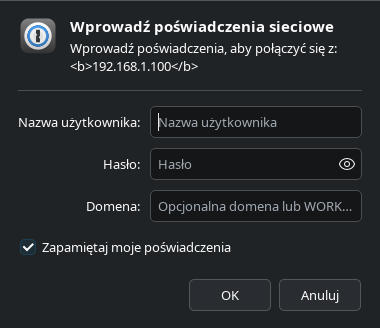
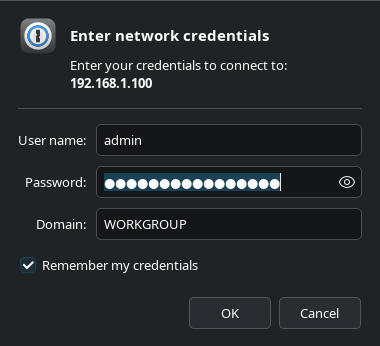
Prepare repository for public release
- Add MIT License file (Copyright Krzysztof (Shieldziak) Tarczyński)
- Update author metadata across setup.py and pyproject.toml
- Generate English screenshots and embed them into README.md
- Add setup.sh and update bin/drivemounter with default .venv support
- Add drivemounter.desktop, requirements.txt, and GitHub Actions CI workflow

diff --git a/setup.py b/setup.py
@@ -3,9 +3,13 @@ from setuptools import setup, find_packages
 setup(
     name="drivemounter",
     version="1.0.0",
-    description="Klon 1:1 kreatora mapowania dysków Windows dla KDE Plasma (SMB, NFS, WebDAV)",
-    author="Antigravity",
+    description="1:1 Windows Map Network Drive clone for KDE Plasma (SMB, NFS, WebDAV)",
+    author="Krzysztof (Shieldziak) Tarczyński",
+    author_email="32707076+Shieldowskyy@users.noreply.github.com",
+    url="https://github.com/Shieldowskyy/drivemounter",
+    license="MIT",
     packages=find_packages(),
+    python_requires=">=3.9",
     install_requires=[
         "PyQt6>=6.5.0",
     ],
@@ -18,6 +22,11 @@ setup(
         "Environment :: X11 Applications :: Qt",
         "Operating System :: POSIX :: Linux",
         "Programming Language :: Python :: 3",
+        "Programming Language :: Python :: 3.9",
+        "Programming Language :: Python :: 3.10",
+        "Programming Language :: Python :: 3.11",
+        "Programming Language :: Python :: 3.12",
+        "License :: OSI Approved :: MIT License",
         "Topic :: Desktop Environment :: K Desktop Environment (KDE)",
         "Topic :: System :: Networking",
     ],

diff --git a/drivemounter/ui/credentials_dialog.py b/drivemounter/ui/credentials_dialog.py
@@ -104,7 +104,7 @@ class CredentialsDialog(QtWidgets.QDialog):
         # Action buttons
         btn_box = QtWidgets.QDialogButtonBox()
         self.ok_btn = btn_box.addButton("OK", QtWidgets.QDialogButtonBox.ButtonRole.AcceptRole)
-        self.cancel_btn = btn_box.addButton("Anuluj", QtWidgets.QDialogButtonBox.ButtonRole.RejectRole)
+        self.cancel_btn = btn_box.addButton(t("BTN_CANCEL"), QtWidgets.QDialogButtonBox.ButtonRole.RejectRole)
         self.ok_btn.setDefault(True)
 
         btn_box.accepted.connect(self._on_accept)
@@ -125,7 +125,7 @@ class CredentialsDialog(QtWidgets.QDialog):
 
     def _on_accept(self):
         if not self.user_edit.text().strip():
-            QtWidgets.QMessageBox.warning(self, "Wymagane dane", "Podaj nazwę użytkownika.")
+            QtWidgets.QMessageBox.warning(self, t("SEC_TITLE"), t("AUTH_EMPTY_USER"))
             self.user_edit.setFocus()
             return
         self.accept()

diff --git a/drivemounter/i18n.py b/drivemounter/i18n.py
@@ -106,6 +106,10 @@ STRINGS: Dict[str, Dict[str, str]] = {
         "en": "Remember my credentials",
         "pl": "Zapamiętaj moje poświadczenia"
     },
+    "AUTH_EMPTY_USER": {
+        "en": "Please enter a user name.",
+        "pl": "Podaj nazwę użytkownika."
+    },
 
     # Browse Dialog
     "BROWSE_TITLE": {

diff --git a/README.md b/README.md
@@ -6,6 +6,20 @@ Seamlessly mount remote network storage on Linux with the familiar Windows workf
 
 ---
 
+## 📸 Screenshots
+
+<p align="center">
+  <img src="screenshot_main.png" alt="DriveMounter - Map Network Drive" width="540" />
+</p>
+
+<p align="center">
+  <img src="screenshot_credentials.png" alt="Windows Security Credentials Dialog" width="380" />
+  &nbsp;&nbsp;&nbsp;&nbsp;
+  <img src="screenshot_disconnect.png" alt="Disconnect Network Drives" width="460" />
+</p>
+
+---
+
 ## 🌟 Key Features
 
 - **1:1 Windows Map Network Drive Wizard Workflow:**
@@ -36,24 +50,67 @@ Seamlessly mount remote network storage on Linux with the familiar Windows workf
 
 ---
 
+## 📦 System Dependencies
+
+Ensure the required system tools and network clients are installed for your distribution:
+
+### Ubuntu / Debian / Kubuntu
+```bash
+sudo apt update
+sudo apt install python3 python3-venv python3-pip cifs-utils nfs-common davfs2 smbclient libnotify-bin
+```
+
+### Fedora
+```bash
+sudo dnf install python3 python3-pip cifs-utils nfs-utils davfs2 samba-client libnotify
+```
+
+### Arch Linux / Manjaro
+```bash
+sudo pacman -S python python-pip cifs-utils nfs-utils davfs2 samba libnotify
+```
+
+---
+
 ## 🚀 Getting Started
 
-### Installation & Launcher Setup
+### Quick Install (Default with Python `venv`)
+
+The repository includes a dedicated `setup.sh` that automatically creates an isolated virtual environment (`.venv`), installs dependencies, generates the desktop shortcut, and links `drivemounter` into your `~/.local/bin`:
 
 ```bash
-# Clone or navigate to the repository
-cd ~/Dokumenty/drivemounter
+# Clone the repository
+git clone https://github.com/Shieldowskyy/drivemounter.git
+cd drivemounter
 
-# Make launcher executable and link to ~/.local/bin
-chmod +x bin/drivemounter
+# Run the automated setup script (uses .venv by default)
+./setup.sh
+```
+
+### Manual Setup with `venv`
+
+If you prefer to configure the virtual environment manually:
+
+```bash
+# 1. Create and activate virtual environment
+python3 -m venv .venv
+source .venv/bin/activate
+
+# 2. Install dependencies & package in editable mode
+pip install --upgrade pip
+pip install -e .
+
+# 3. Link launcher to your local path
 mkdir -p ~/.local/bin
 ln -sf "$(pwd)/bin/drivemounter" ~/.local/bin/drivemounter
 
-# Install KDE Application Menu (.desktop) entry
+# 4. Install KDE Application Menu (.desktop) entry
 drivemounter --install-desktop
 ```
 
-### Usage
+---
+
+## 💡 Usage
 
 ```bash
 # Launch the Map Network Drive wizard
@@ -65,8 +122,9 @@ drivemounter --disconnect
 # Silent background remount (used automatically on user login)
 drivemounter --remount
 
-# Force Polish language (English is default)
-drivemounter --lang pl
+# Switch UI language (English is default)
+drivemounter --lang en   # English
+drivemounter --lang pl   # Polish
 ```
 
 ---
@@ -76,7 +134,7 @@ drivemounter --lang pl
 ```
 drivemounter/
 ├── bin/
-│   └── drivemounter              # Shell launcher script
+│   └── drivemounter              # Smart shell launcher (auto-detects .venv)
 ├── drivemounter/
 │   ├── __init__.py
 │   ├── app.py                    # Main application entry point & CLI handler
@@ -97,8 +155,12 @@ drivemounter/
 │       └── web_location_dialog.py# WebDAV / Cloud storage wizard
 ├── tests/
 │   └── test_drivemounter.py      # Automated unit tests
-├── drivemounter.desktop          # XDG desktop shortcut
-├── setup.py                      # Python packaging setup
+├── drivemounter.desktop          # XDG desktop application entry
+├── setup.sh                      # One-step installation script with .venv default
+├── setup.py                      # Python packaging script
+├── pyproject.toml                # Modern PEP 517/621 package configuration
+├── requirements.txt              # Python requirements
+├── LICENSE                       # MIT License
 └── README.md                     # Documentation
 ```
 
@@ -106,7 +168,7 @@ drivemounter/
 
 ## 🔒 Security & Credentials
 
-Network credentials are saved locally in `~/.config/drivemounter/credentials.json` with strict user-only permissions (`chmod 0600`). Alternatively, credentials are fed securely during the mount session.
+Network credentials are saved locally in `~/.config/drivemounter/credentials.json` with strict user-only permissions (`chmod 0600`). Alternatively, credentials can be provided per-session without storing them to disk.
 
 ---
 
@@ -118,6 +180,13 @@ python3 -m unittest discover -s tests -v
 
 ---
 
+## 👤 Author
+
+**Krzysztof (Shieldziak) Tarczyński**  
+- GitHub: [@Shieldowskyy](https://github.com/Shieldowskyy)
+
+---
+
 ## 📄 License
 
-MIT License. Free for personal and commercial use.
+This project is licensed under the **MIT License** - see the [LICENSE](LICENSE) file for details.
